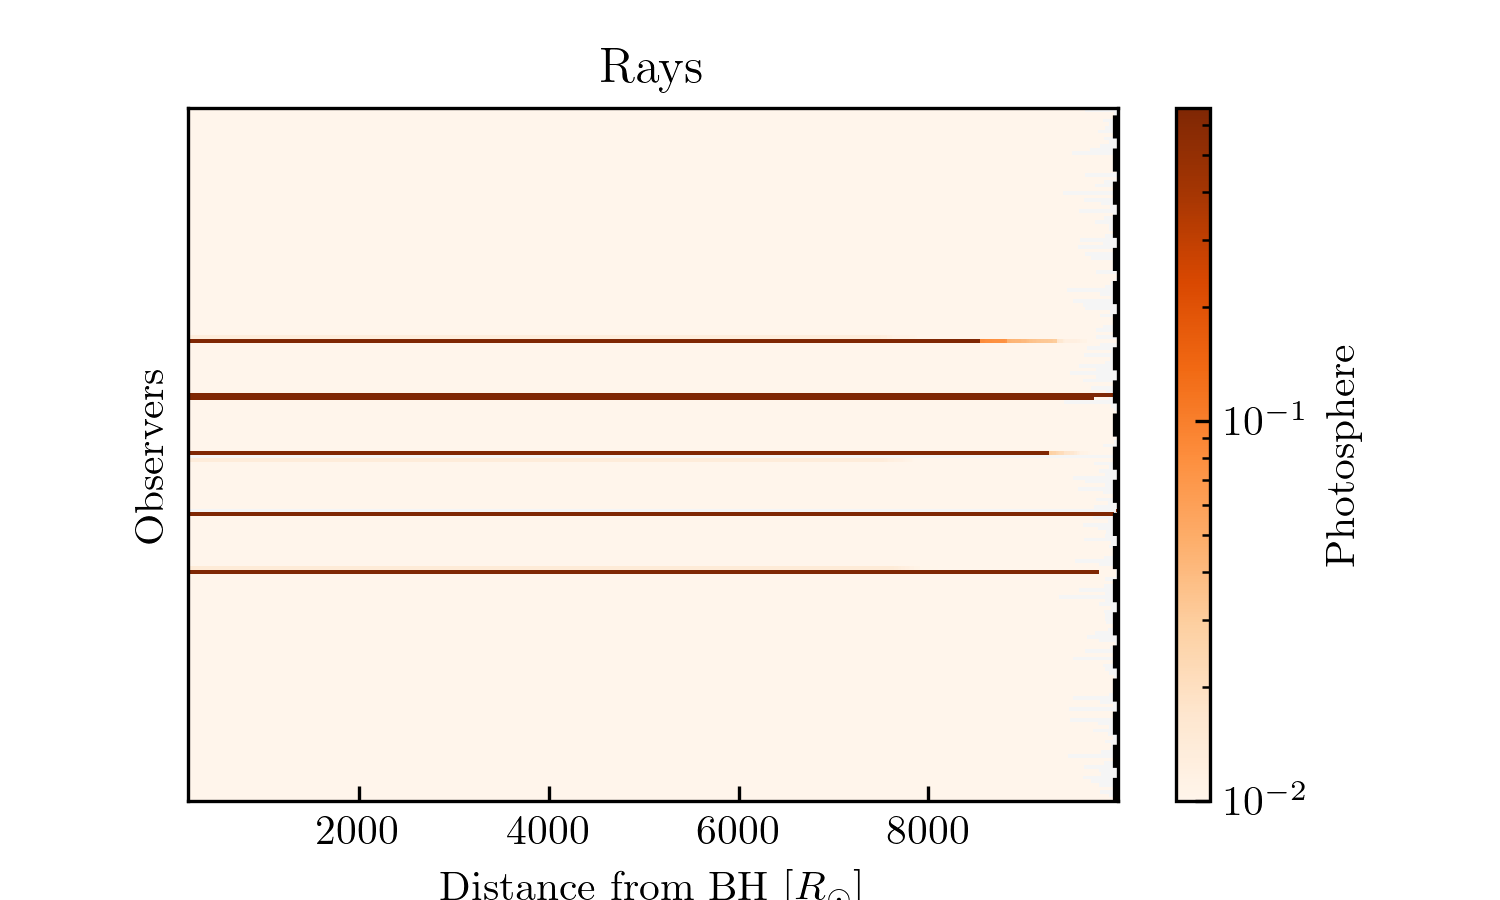
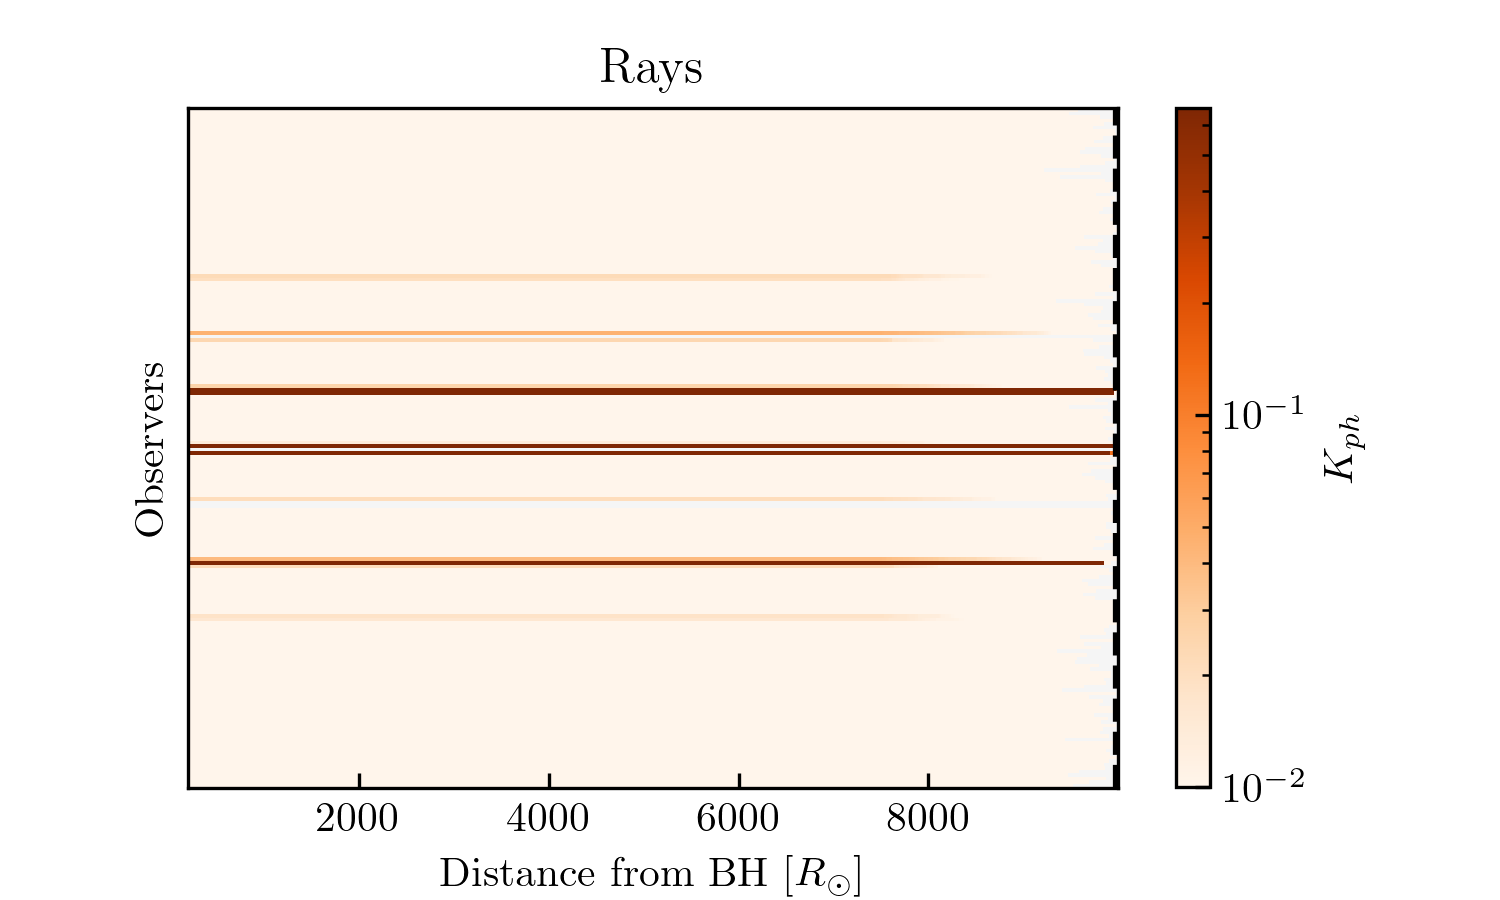
bullshit

diff --git a/src/Plotting/just_how_bad_the_table_is.py b/src/Plotting/just_how_bad_the_table_is.py
@@ -12,9 +12,11 @@ plt.rcParams['text.usetex'] = True
 plt.rcParams['figure.dpi'] = 300
 plt.rcParams['font.family'] = 'Times New Roman'
 plt.rcParams['axes.facecolor']= 	'whitesmoke'
+import matplotlib.colors as colors
 import colorcet
 from astropy.coordinates import cartesian_to_spherical
 from src.Calculators.legion_of_casters import THROUPLE_S_CASTERS
+from src.Opacity.opacity_table import opacity
 
 #%% Constants & Converter
 NSIDE = 4
@@ -63,7 +65,7 @@ PHI = PHI.value
 
 # Ensure that the regular grid cells are smaller than simulation cells
 start = 2 * Rt
-stop = 10_000 #400 * Rt
+stop = 2_000 #400 * Rt
 if m == 6:
     num = 750 + 1 # about the average of cell radius
 if m == 4:
@@ -97,7 +99,43 @@ T_casted = np.delete(T_casted, -1, axis = 0)
 Den_casted = np.delete(Den_casted, -1, axis = 0)
 Mass_casted = np.delete(Mass_casted, -1, axis = 0)
 radii = np.delete(radii, -1, axis = 0)
-#%%
+#%% Reshape
+
+dens =  []
+Ts = []
+distance = []
+masses = []
+opac_p = []
+opac_s = []
+
+for i in range(len(radii)):
+    for j in range(len(observers)):
+        T =  T_casted[i,j] 
+        rho = Den_casted[i,j]
+        # If there is nothing, the ray continues unimpeded
+        if rho < np.exp(-49.3):
+            opi_p = 0
+            opi_s = 0
+        # Stream material, is opaque
+        elif T < np.exp(8.666):
+            opi_p = 100
+            opi_s = 100
+        # Too hot: Thompson Opacity.
+        # Make it fall inside the table: from here the extrapolation is constant
+        elif T > np.exp(17.876):
+            T = np.exp(17.87)
+            opi_p = opacity(T, rho, 'planck', ln =False)
+            opi_s = opacity(T, rho, 'scattering', ln =False)
+        else:
+            opi_p = opacity(T, rho, 'planck', ln =False)
+            opi_s = opacity(T, rho, 'scattering', ln =False)
+        
+        opac_p.append(opi_p)
+        opac_s.append(opi_s)
+        dens.append( np.log10( Den_casted[i,j]) )
+        Ts.append( np.log10( T_casted[i,j] ))
+        distance.append(radii[i])
+#%% Plot       
 fig, ax = plt.subplots( figsize = (8,4) )
 ax.axvline( np.log10(np.exp(-23)) , 
             color = 'b', linestyle = 'dashed')
@@ -107,27 +145,68 @@ ax.axhline( np.log10(np.exp(8.666)) ,
             color = 'r', linestyle = 'dashed')
 ax.axhline( np.log10(np.exp(17.876)) , 
             color = 'r', linestyle = 'dashed')
-dens =  []
-Ts = []
-colors = []
-masses = []
-for i in range(len(radii)):
-    for j in range(len(observers)):
-        dens.append( np.log10( Den_casted[i,j]) )
-        Ts.append( np.log10( T_casted[i,j] ))
-        colors.append(radii[i])
-        masses.append(np.log10(Mass_casted[i,j]))
 
-kind = 'distance' # or dist
+kind = 'planck' # or dist
 if kind == 'mass':
     img = plt.scatter(dens, Ts, s = 1, c = masses, marker = 'x', cmap = 'cet_bky')
     cbar = plt.colorbar(img)
     cbar.set_label(r'$\log_{10}(M)$ [$M_\odot$]')
 elif kind == 'distance':
-    img = plt.scatter(dens, Ts, s = 1, c = colors , marker = 'x', cmap = 'cet_bmy')
+    img = plt.scatter(dens, Ts, s = 1, c = distance , marker = 'x', cmap = 'cet_bmy')
     cbar = plt.colorbar(img)
     cbar.set_label(r' Distance from BH $[R_\odot]$')
-
+elif kind == 'planck':
+    img = plt.scatter(dens, Ts, s = 1, c = opac_p , marker = 'x', cmap = 'Blues',
+                      norm = colors.LogNorm())
+    cbar = plt.colorbar(img)
+    cbar.set_label(r' Planck Opacity  $[1/cm]$')
+elif kind == 'scatter':
+    img = plt.scatter(dens, Ts, s = 1, c = opac_s , marker = 'x', cmap = 'Reds',
+                      norm = colors.LogNorm())
+    cbar = plt.colorbar(img)
+    cbar.set_label(r' Scattering Opacity $[1/cm]$')
+elif kind == '3d-planck':
+    fig, ax = plt.subplots(subplot_kw=dict(projection='3d'), tight_layout = True)
+    img = ax.scatter(dens, Ts, distance, s = 1, c = opac_p , marker = 'x', cmap = 'Blues',
+                      norm = colors.LogNorm())
+    cbar = fig.colorbar(img)
+    cbar.set_label(r' Planck Opacity $[1/cm]$')
+    ax.set_zlabel(r'Distance from BH $[R_\odot]$')
+    ax.view_init(elev=50., azim=65, roll=0)
+    ax.dist = 12
+    ax.plot( [np.log10(np.exp(-23))] * 50, np.linspace(2,np.max(Ts)), 
+             [np.min(distance)] * 50, 
+             color = 'b', linestyle = 'dashed')
+    ax.plot( [np.log10(np.exp(-0.18))] * 50, np.linspace(2,np.max(Ts)), 
+             [np.min(distance)] * 50, 
+             color = 'b', linestyle = 'dashed', zorder = 3)
+    ax.plot( np.linspace(-21, 0), [np.log10(np.exp(8.666))] * 50,
+             [np.min(distance)] * 50, 
+             color = 'r', linestyle = 'dashed', zorder = 3)
+    ax.plot( np.linspace(-21, 0), [np.log10(np.exp(17.876))] * 50,
+             [np.min(distance)] * 50, 
+             color = 'r', linestyle = 'dashed', zorder = 3)
+elif kind == '3d-scatter':
+    fig, ax = plt.subplots(subplot_kw=dict(projection='3d'), tight_layout = True)
+    img = ax.scatter(dens, Ts, distance, s = 1, c = opac_s , marker = 'x', cmap = 'Reds',
+                      norm = colors.LogNorm())
+    cbar = fig.colorbar(img)
+    cbar.set_label(r' Planck Opacity $[1/cm]$')
+    ax.set_zlabel(r'Distance from BH $[R_\odot]$')
+    ax.view_init(elev=50., azim=65, roll=0)
+    ax.dist = 12
+    ax.plot( [np.log10(np.exp(-23))] * 50, np.linspace(2,np.max(Ts)), 
+             [np.min(distance)] * 50, 
+             color = 'b', linestyle = 'dashed')
+    ax.plot( [np.log10(np.exp(-0.18))] * 50, np.linspace(2,np.max(Ts)), 
+             [np.min(distance)] * 50, 
+             color = 'b', linestyle = 'dashed', zorder = 3)
+    ax.plot( np.linspace(-21, 0), [np.log10(np.exp(8.666))] * 50,
+             [np.min(distance)] * 50, 
+             color = 'r', linestyle = 'dashed', zorder = 3)
+    ax.plot( np.linspace(-21, 0), [np.log10(np.exp(17.876))] * 50,
+             [np.min(distance)] * 50, 
+             color = 'r', linestyle = 'dashed', zorder = 3)
 ax.grid()
 ax.set_xlabel(r'$\log( \rho )$ $[g/cm^3]$')
 ax.set_ylabel('$\log(T)$ $[K]$')

diff --git a/src/Luminosity/thermR.py b/src/Luminosity/thermR.py
@@ -143,8 +143,8 @@ def get_thermr(rays_T, rays_den, radii):
 ################
 
 if __name__ == "__main__":    
-    plot_taus = False 
-    plot_thermr = True 
+    plot_taus = True 
+    plot_thermr = False 
     m = 6 
     
     # Make Paths
@@ -153,7 +153,7 @@ if __name__ == "__main__":
         days = [1, 1.2, 1.3, 1.4, 1.56, 1.7, 1.8] 
         loadpath = '4/'
     if m == 6:
-        fixes = [844, 881, 925, 950]
+        fixes = [844,]# 881, 925, 950]
         days = [1, 1.1, 1.3, 1.4] #t/t_fb
         loadpath = '6/'
     
@@ -167,31 +167,31 @@ if __name__ == "__main__":
         fix_thermr_arit[index] = np.mean(thermr)
         fix_thermr_geom[index] = gmean(thermr)
     #%% Plot tau
-        if plot_taus:
-            plot_tau = np.zeros( (len(radii), len(tau)))
-            for i in range(192):
-                for j in range(len(cumulative_taus)):
-                    temp = cumulative_taus[i][j]
-                    plot_tau[-j-1,i] =  temp
-                    if temp>5:
-                        plot_tau[0:-j, i ] = temp
-                        break
-                plot_tau[0:-j, i ] = temp
+    if plot_taus:
+        plot_tau = np.zeros( (len(radii), len(tau)))
+        for i in range(192):
+            for j in range(len(cumulative_taus)):
+                temp = cumulative_taus[i][j]
+                plot_tau[-j-1,i] =  temp
+                if temp>5:
+                    plot_tau[0:-j, i ] = temp
+                    break
+            plot_tau[0:-j, i ] = temp
 
-            img = plt.pcolormesh(radii/6.957e10, np.arange(192), plot_tau.T, 
-                                cmap = 'Greys', norm = colors.LogNorm(vmin = 1e-4, vmax =  1))
-            cbar = plt.colorbar(img)
-            plt.title('Rays')
-            cbar.set_label('Optical depth')
-            plt.xlabel('Distance from BH [$R_\odot$]')
-            # plt.ylim(60,80)
-            plt.ylabel('Observers')
-            # plt.xscale('log')
-            img.axes.get_yaxis().set_ticks([])
-            plt.show()
+        img = plt.pcolormesh(radii/6.957e10, np.arange(192), plot_tau.T, 
+                            cmap = 'Greys', norm = colors.LogNorm(vmin = 1e-4, vmax =  1))
+        cbar = plt.colorbar(img)
+        plt.title('Rays')
+        cbar.set_label('Optical depth')
+        plt.xlabel('Distance from BH [$R_\odot$]')
+        # plt.ylim(60,80)
+        plt.ylabel('Observers')
+        # plt.xscale('log')
+        img.axes.get_yaxis().set_ticks([])
+        plt.show()
 
-        print('Fix ', fix)
-        
+    print('Fix ', fix)
+    
     if plot_thermr:
         with open('data/thermr_m' + str(m) + '.txt', 'a') as file:
                 file.write('# t/t_fb \n')

diff --git a/src/Luminosity/photosphere.py b/src/Luminosity/photosphere.py
@@ -113,8 +113,8 @@ def get_photosphere(rays_T, rays_den, radii):
 
 if __name__ == "__main__":
     from src.Calculators.ray_maker import ray_maker
-    plot_kappas = False 
-    plot_photosphere = True 
+    plot_kappas = True 
+    plot_photosphere = False 
     m = 6 
     
     # Make Paths
@@ -123,8 +123,8 @@ if __name__ == "__main__":
         days = [1, 1.2, 1.3, 1.4, 1.56, 1.7, 1.8] 
         loadpath = '4/'
     if m == 6:
-        fixes = [844, 881, 925, 950]
-        days = [1, 1.1, 1.3, 1.4] #t/t_fb
+        fixes = [881] # [844, 881, 925, 950]
+        days = [1.1] #[1, 1.1, 1.3, 1.4] #t/t_fb
         loadpath = '6/'
 
     fix_photo_arit = np.zeros(len(fixes))

diff --git a/src/Luminosity/red.py b/src/Luminosity/red.py
@@ -172,15 +172,12 @@ def doer_of_thing(fix, m):
         idx_tot.append(idx)
     flux = flux_calculator(grad_E_tot, idx_tot, 
                             rays, rays_T, rays_den)
-    
     lum = np.zeros(len(flux))
     for i in range(len(flux)):
+        # Turn to luminosity
         lum[i] = flux[i] * 4 * np.pi * sphere_radius[i]**2
-    # Divide by number of observers
-    #flux = np.sum(flux) / 192
-    
-    # Turn to luminosity
-    #lum = flux * 4 * np.pi * sphere_radius**2
+
+    # Average in observers
     lum = np.sum(lum)/192
     print('Lum %.3e' % lum )
     return lum

diff --git a/src/Utilities/finished.py b/src/Utilities/finished.py
@@ -15,7 +15,7 @@ def finished():
     old_dir = os.getcwd()
     
     # Navigate to the new one
-    os.chdir('/home/konstantinos') # allazeis se panos
+    os.chdir('/home/konstantinos') 
     
     # Choose randomly one of the files to play
     rng = random.randint(1,3)
